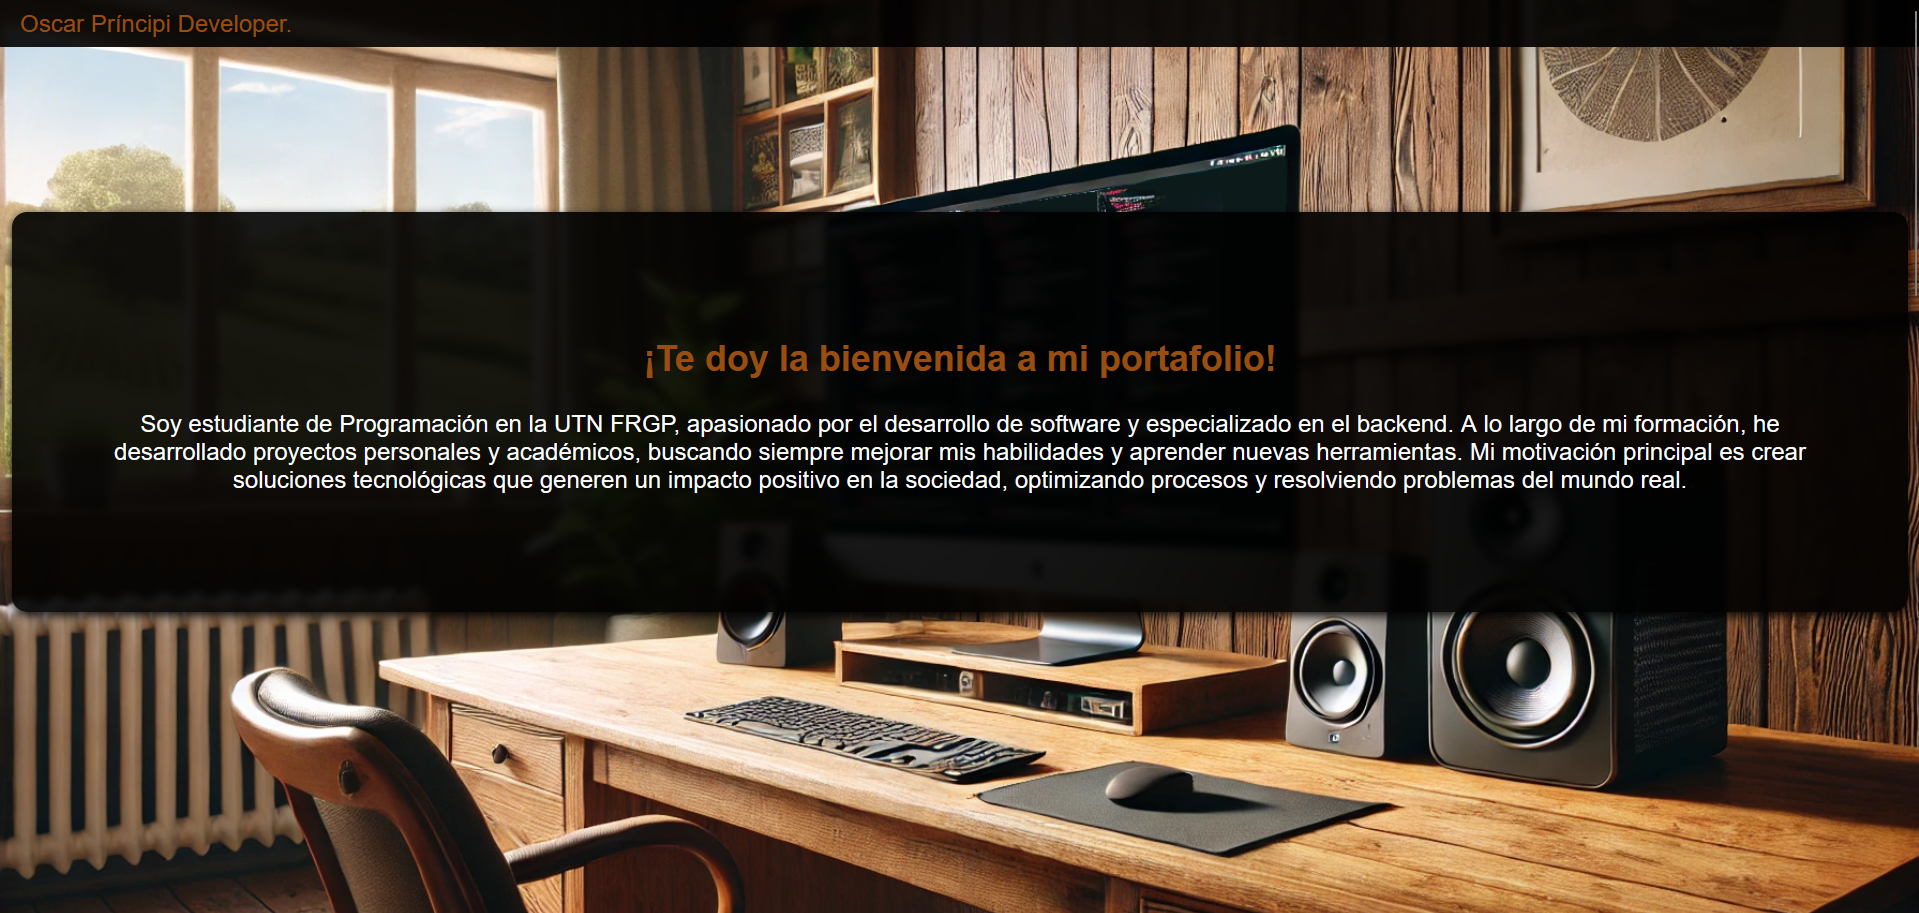
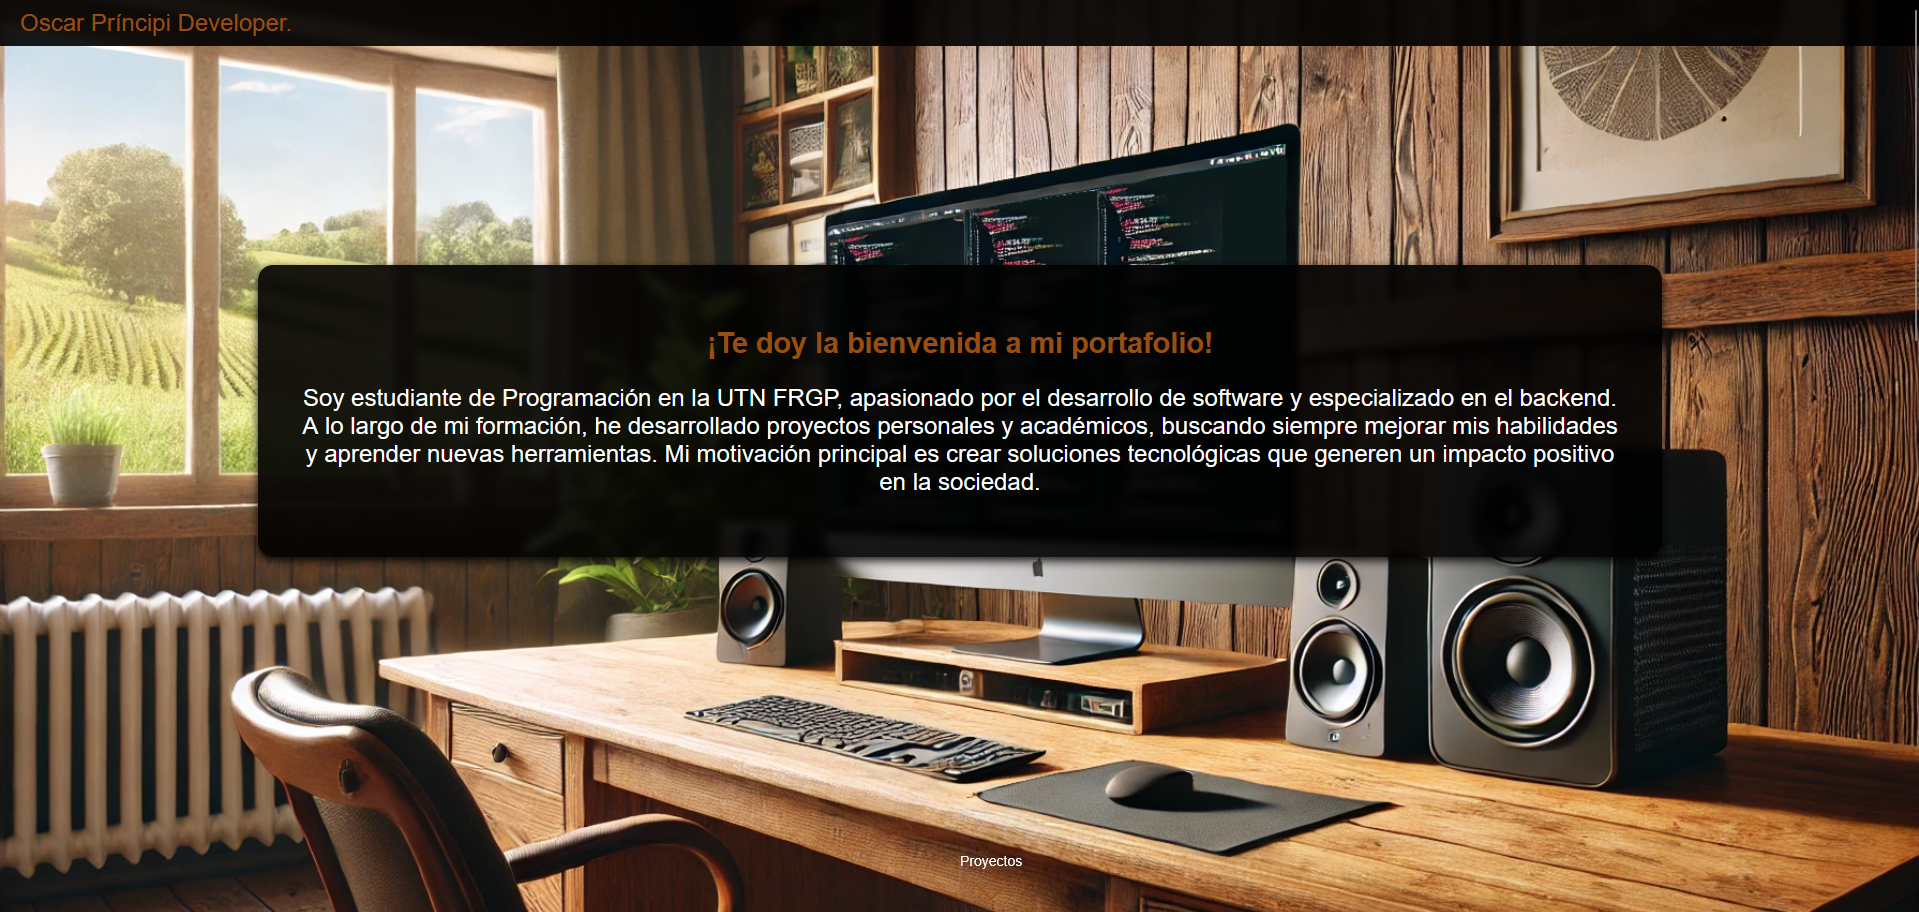
Actualizacion de proyectos

diff --git a/index.html b/index.html
@@ -52,8 +52,8 @@
         <!-- Proyectos -->
         <section id="proyectos">
             <div id="proyectos-grid" class="proyectos-grid">
-                <!-- <div class="proyecto">
-                    <h2 class="titulo-proyecto">Express eCommerce</h2>
+                <!-- <div class="titulo-proyecto">
+                    <h2 class="">Express eCommerce</h2>
                     <img src="./img/Proyectos/Portafolio.png" alt="Portafolio">
                     <p>Desarrollado con .NET Core, SQL, Blazor, Boostrap</p>
                 </div> -->
@@ -76,6 +76,11 @@
                     <h2 class="titulo-proyecto">Portafolio personal</h2>
                     <img src="./img/Proyectos/Portafolio.png" alt="Portafolio">
                     <p>Desarrollado con HTML, CSS y JavaScript.</p>
+                </div>
+                <div class="proyecto">
+                    <h2 class="titulo-proyecto">Juego Tetris</h2>
+                    <img src="./img/Proyectos/Tetris.png" alt="Tetris">
+                    <p>Desarrollado con C++ y Raylib</p>
                 </div>
             </div>
         </section>

diff --git a/css/proyectos.css b/css/proyectos.css
@@ -36,6 +36,12 @@
     border-radius: 15px;
     box-shadow: 0 4px 10px rgba(0, 0, 0, 0.9);
 }
+.proyecto img[alt="Tetris"] {
+    width: 80%; 
+    max-width: 200px;
+    height: auto; 
+}
+
 
 .titulo-proyecto {
     color: #994e10;
